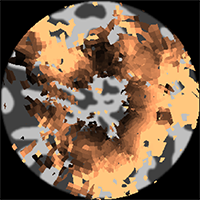
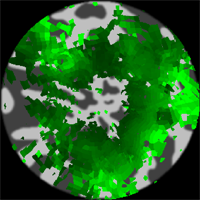
Wow so much better

diff --git a/prf/prf.js b/prf/prf.js
@@ -52,14 +52,14 @@ function loadData() {
         cecc_g = data.ecc_.data[x*isize*4+y*4+1];
       // If the colors are all the same, this isn't a voxel
       if (!((cpa_r==cpa_g && cpa_g==cpa_b)||(cecc_r==cecc_g))) {
-        var ecc = cecc_r*15/255;
+        var ecc = cecc_g*30/255;
         data.ecc.push(ecc);
         var pa = rgb2pa(cpa_r,cpa_g,cpa_b);
         data.pa.push(pa);
         data.vx.push(x);
         data.vy.push(y);
-        data.x.push(ecc*100/15*Math.cos(pa));
-        data.y.push(ecc*100/15*Math.sin(pa));
+        data.x.push(ecc*100/30*Math.cos(pa));
+        data.y.push(ecc*100/30*Math.sin(pa));
       }
     }
   }
@@ -70,17 +70,8 @@ function rgb2pa(r,g,b) {
   // 100% R = -PI
   // 100% G = -PI + 2/3*PI
   // 100% B = -PI * 4/3*PI
-  var pa = -Math.PI;
-  if (r>0) {
-    pa+=(255-r)/255*2/3*Math.PI;
-  }
-  else if (g>0) {
-    pa+=2/3*Math.PI + (255-g)/255*2/3*Math.PI;
-  }
-  else if (b>0) {
-    pa+=4/3*Math.PI + (255-b)/255*2/3*Math.PI;
-  }
-  return pa;
+  
+  return 2*Math.PI*g/255-Math.PI;
 }
 
 function run5() {
@@ -134,7 +125,7 @@ function drawMap(ctx) {
         }
         break;
       case 1:
-        var dist = Math.abs(data.ecc[i]-stimEcc*15/115);
+        var dist = Math.abs(data.ecc[i]-stimEcc*30/115);
         if (dist<3) {
           draw = true;
           color = (Math.round(255-dist*255/3)).toString(16);
